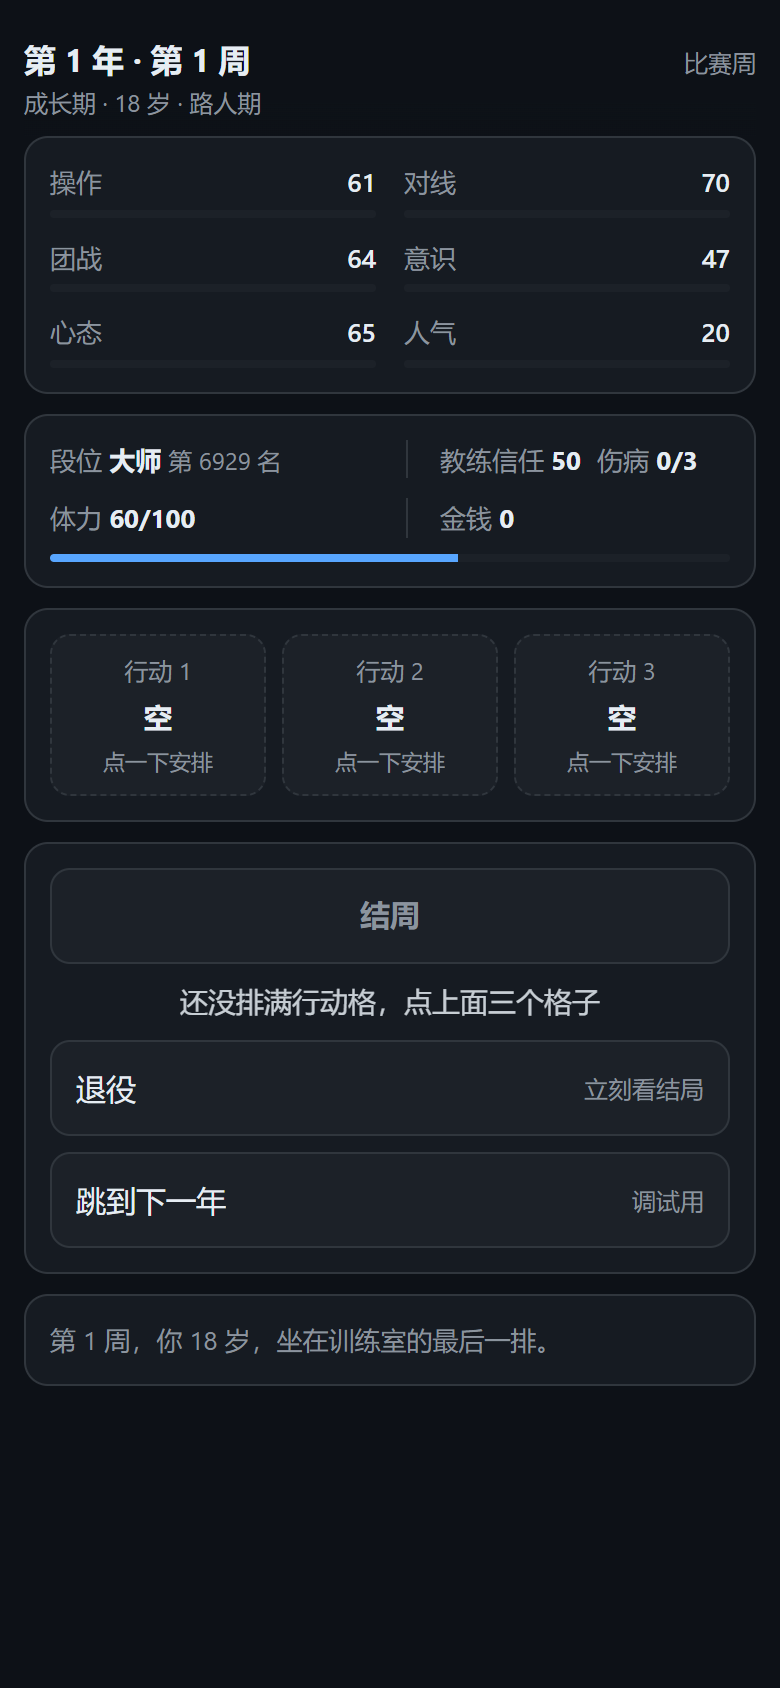
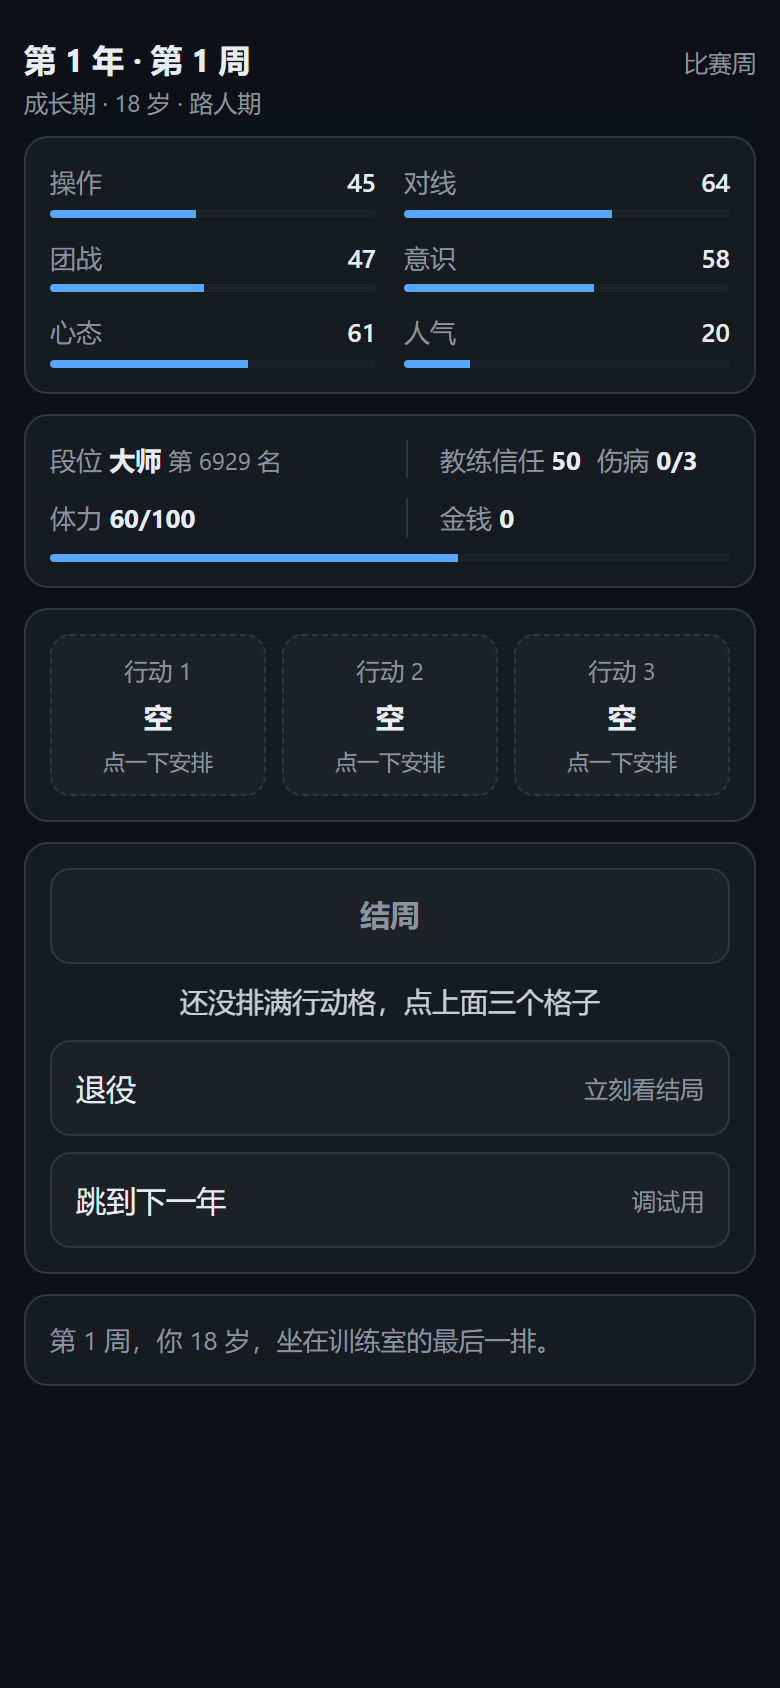
feat(ui): 六维各加一条蓝条，长度=属性值/100

diff --git a/src/ui/main.ts b/src/ui/main.ts
@@ -3,7 +3,6 @@ import { reduce } from '../core/reduce';
 import { getEvent, successRateOf } from '../core/events';
 import { ACTION_INFO, canAfford, isActionUnlocked, staminaCost } from '../core/actions';
 import { loadSaved, persist } from '../core/save';
-import { expProgress } from '../core/growth';
 import { ageOf, isMatchWeek, newGame, phaseOfYear } from '../core/state';
 import { rankOf } from '../core/ladder';
 import { randomSeed } from '../rng';
@@ -48,8 +47,8 @@ function renderTopbar(): string {
 
 function renderAttrs(): string {
   const cells = ATTR_KEYS.map((key) => {
-    const prog = expProgress(state, key);
-    const pct = Math.round((prog.current / prog.needed) * 100);
+    // 条形 = 属性值 / 100（0–100 满分），不是经验进度：玩家看的是“我有多强”
+    const pct = Math.max(0, Math.min(100, Math.round(state.attrs[key])));
     return `<div class="attr">
       <div class="row"><span class="name">${ATTR_LABEL[key]}</span><span class="val">${state.attrs[key]}</span></div>
       <div class="bar"><i style="width:${pct}%"></i></div>
